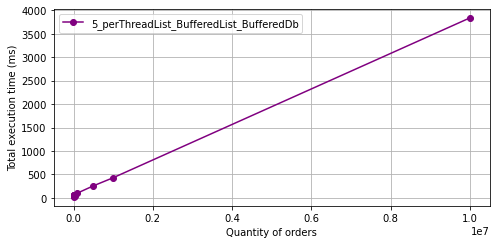
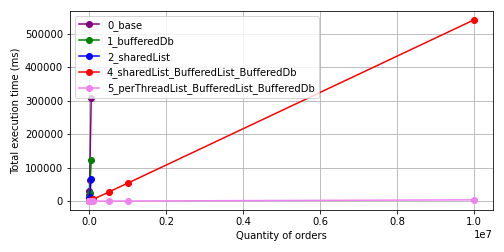
Final report version

Changed region(s): [[0.0, 0.0287, 0.998, 0.9754]]

diff --git a/README.md b/README.md
@@ -40,8 +40,7 @@ However, this is a theoretical complexity. In fact, the execution time is not di
 
 ## Experimental benchmark
 Inorder to compare the different proposed algorithm, we have implemented an experimental benchmarking (code [link](https://github.com/simbadSid/creedandbear_test/blob/main/code/src/testOrdersManager.cpp)).
-The result of this benchmark are presented in the following graphs.
-![alt text](https://github.com/simbadSid/creedandbear_test/blob/main/resource/benchmark.png)
+The result of this benchmark are presented in the following graph.
 ![alt text](https://github.com/simbadSid/creedandbear_test/blob/main/resource/benchmark_log.png)
 
 This benchmark evaluates each algorithm using different number of orders.
